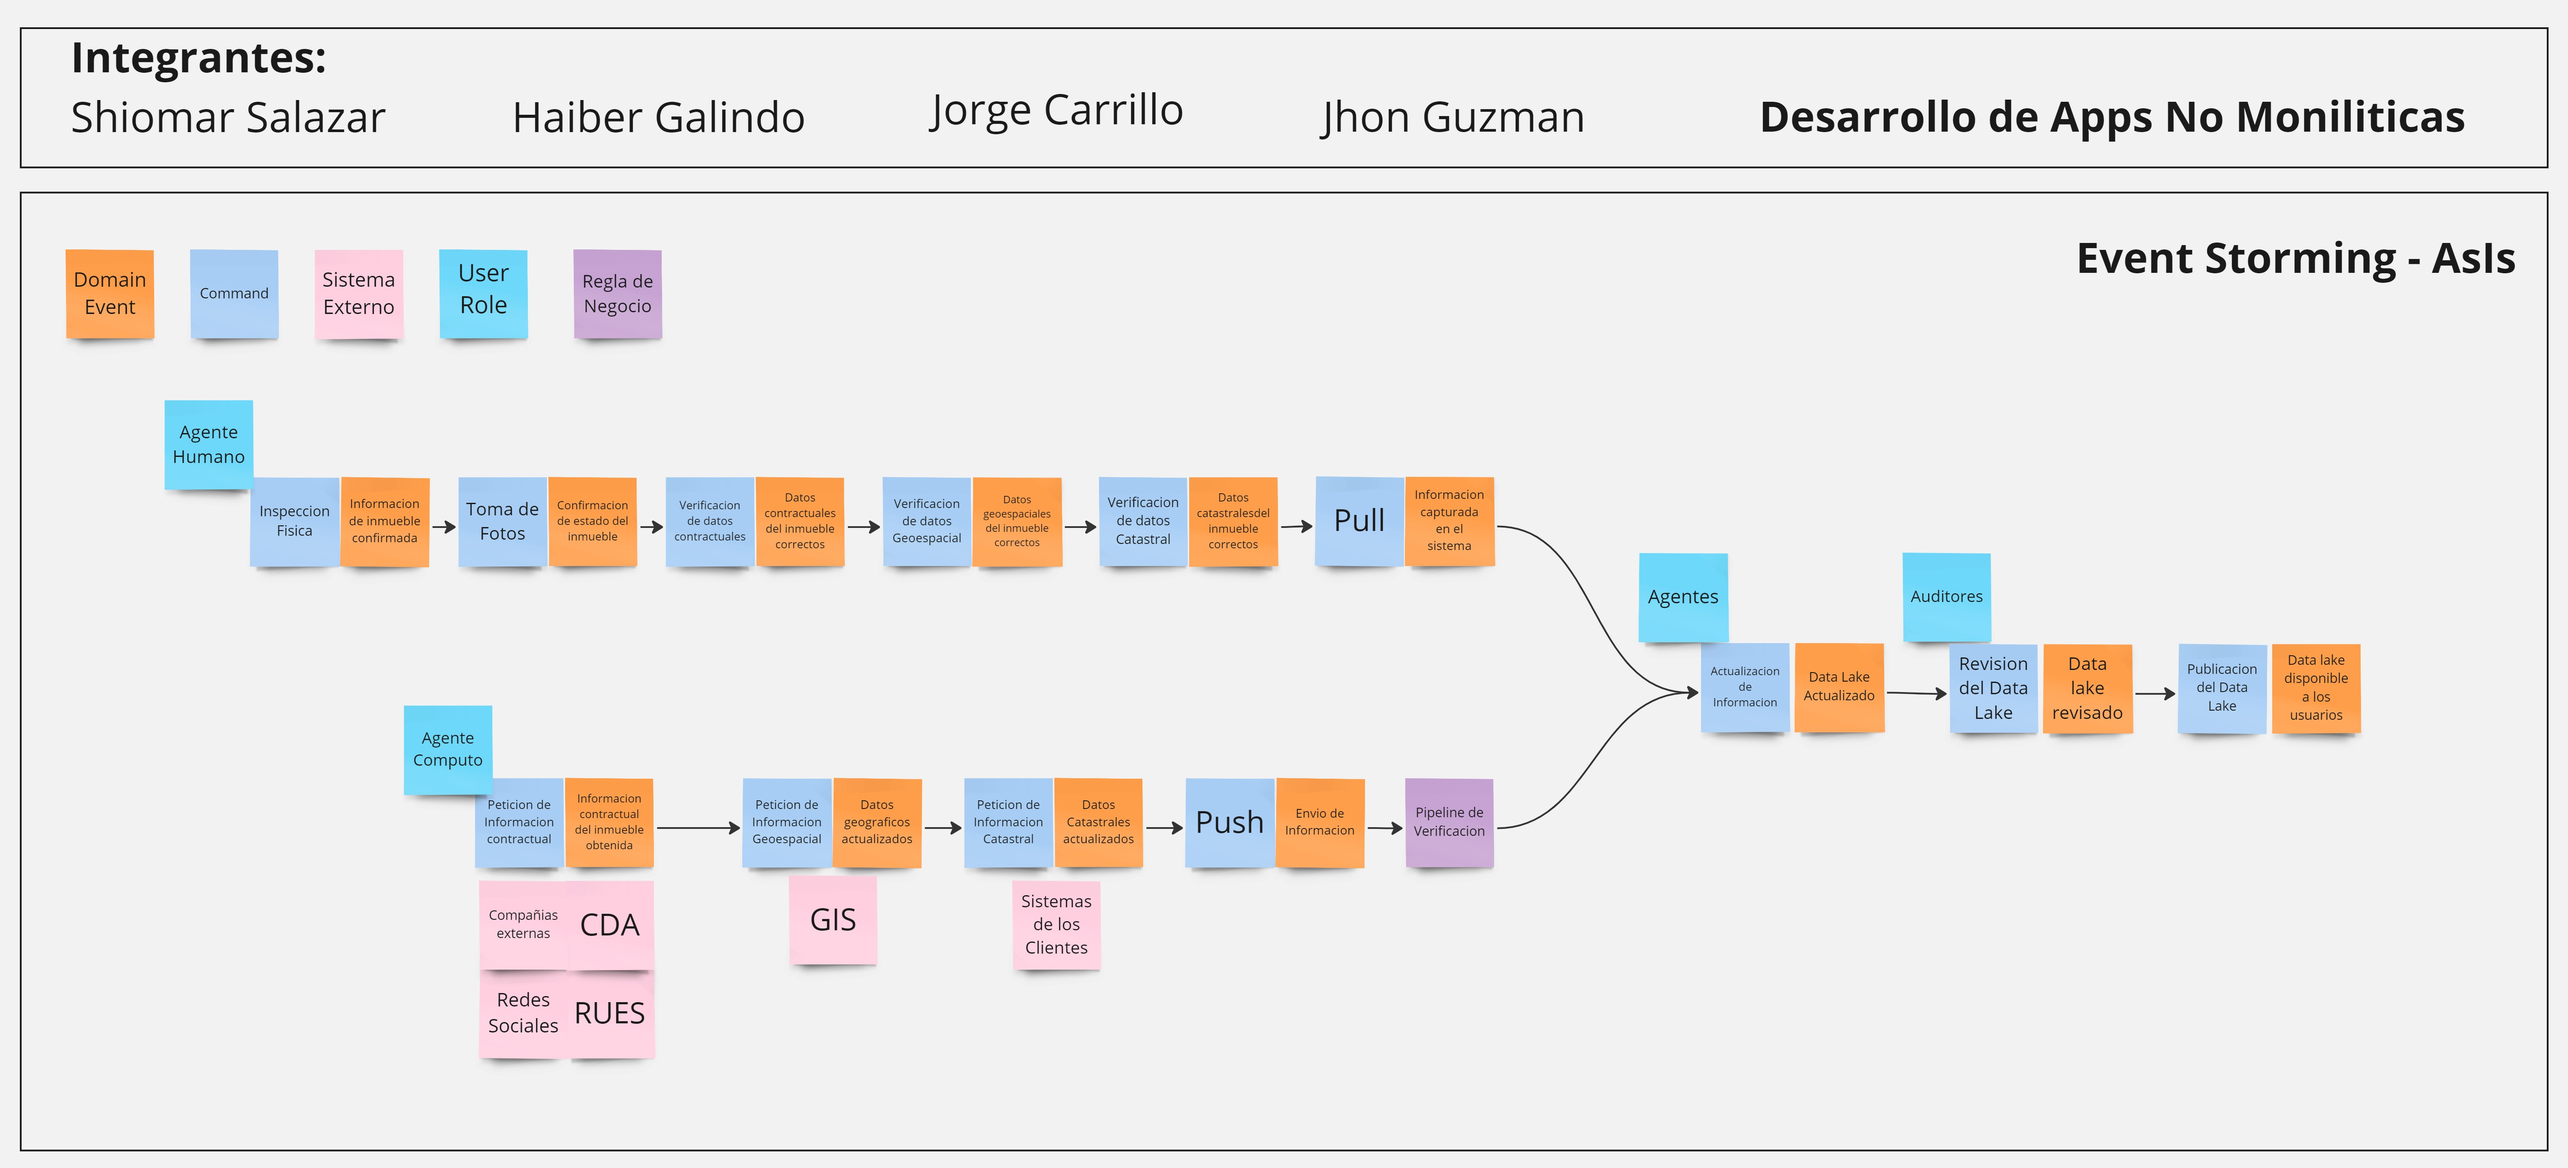
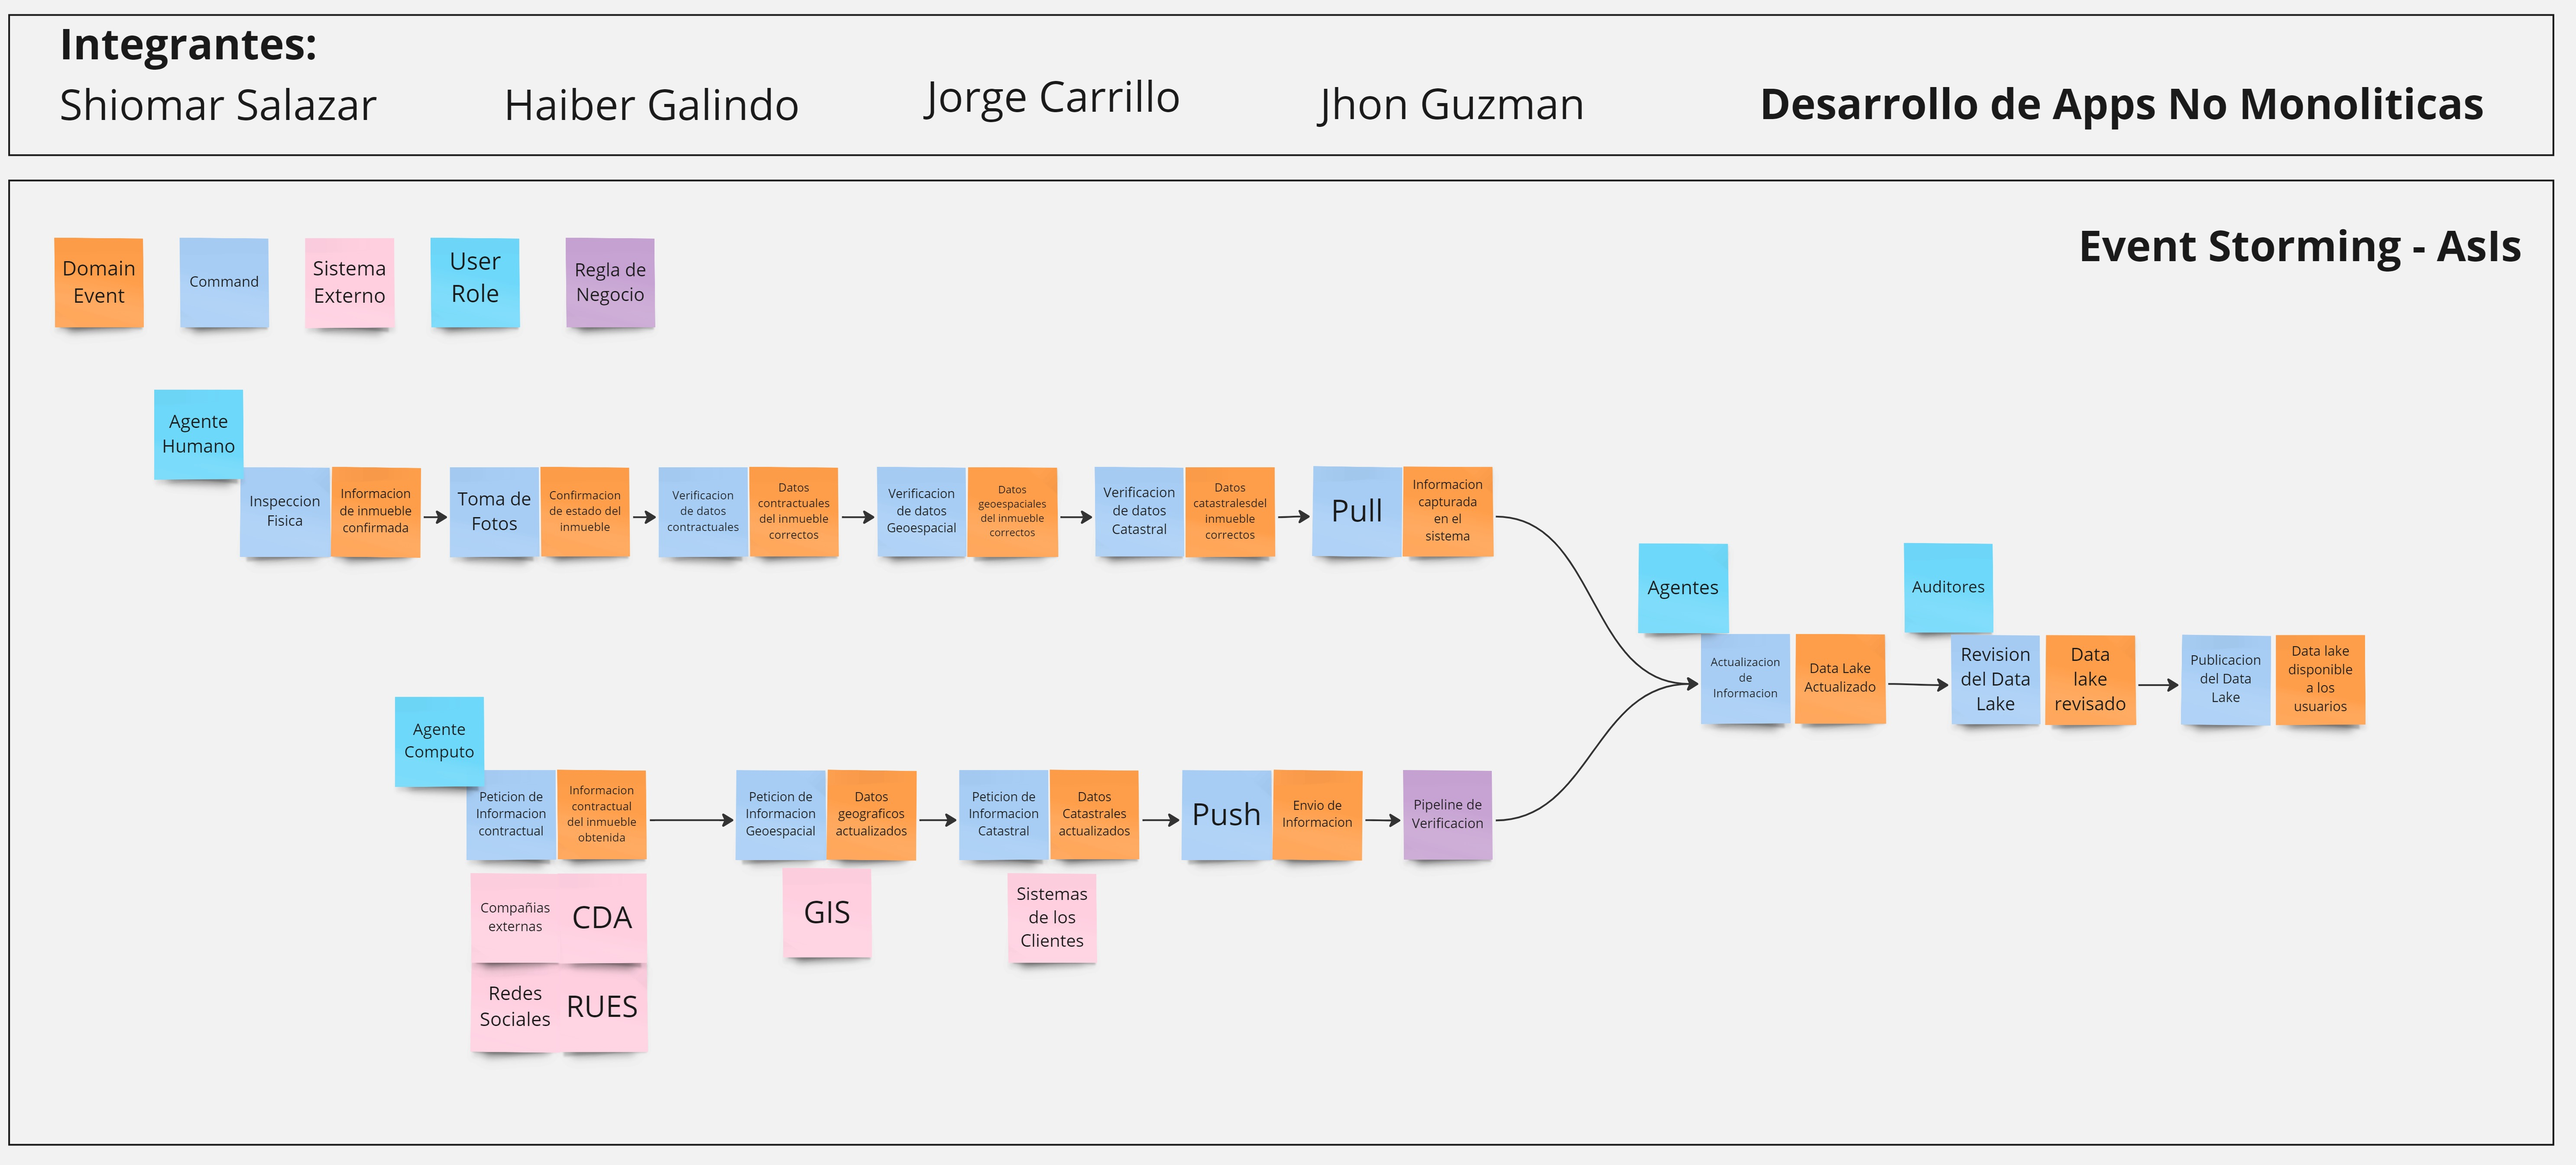
Se corriguen errores ortograficos

diff --git a/README.md b/README.md
@@ -1,6 +1,6 @@
 # Repositorio del Equipo Optimizers de la Materia MISW4406-2024-11
 
-# Integrantes:
+## Integrantes:
 
 |   Nombre                         |   Correo                      | Codigo    | 
 |----------------------------------|-------------------------------|-----------|
@@ -30,7 +30,7 @@
 
 [Enlace al Miro](https://miro.com/app/board/uXjVNxoJPKA=/?share_link_id=642981170674)
 
-[Enlace al Diagrama General](https://github.com/shiomar-salazar/MISW4406-Optimizers/blob/master/EntregaSemana2/Flujo-S2-AsIs.jpg)
+[Enlace al Diagrama General](https://github.com/shiomar-salazar/MISW4406-Optimizers/blob/master/EntregaSemana2/Flujo-S2.jpg)
 
 [Enlace al Diagrama AsIs](https://github.com/shiomar-salazar/MISW4406-Optimizers/blob/master/EntregaSemana2/Flujo-S2-AsIs.jpg)
 
